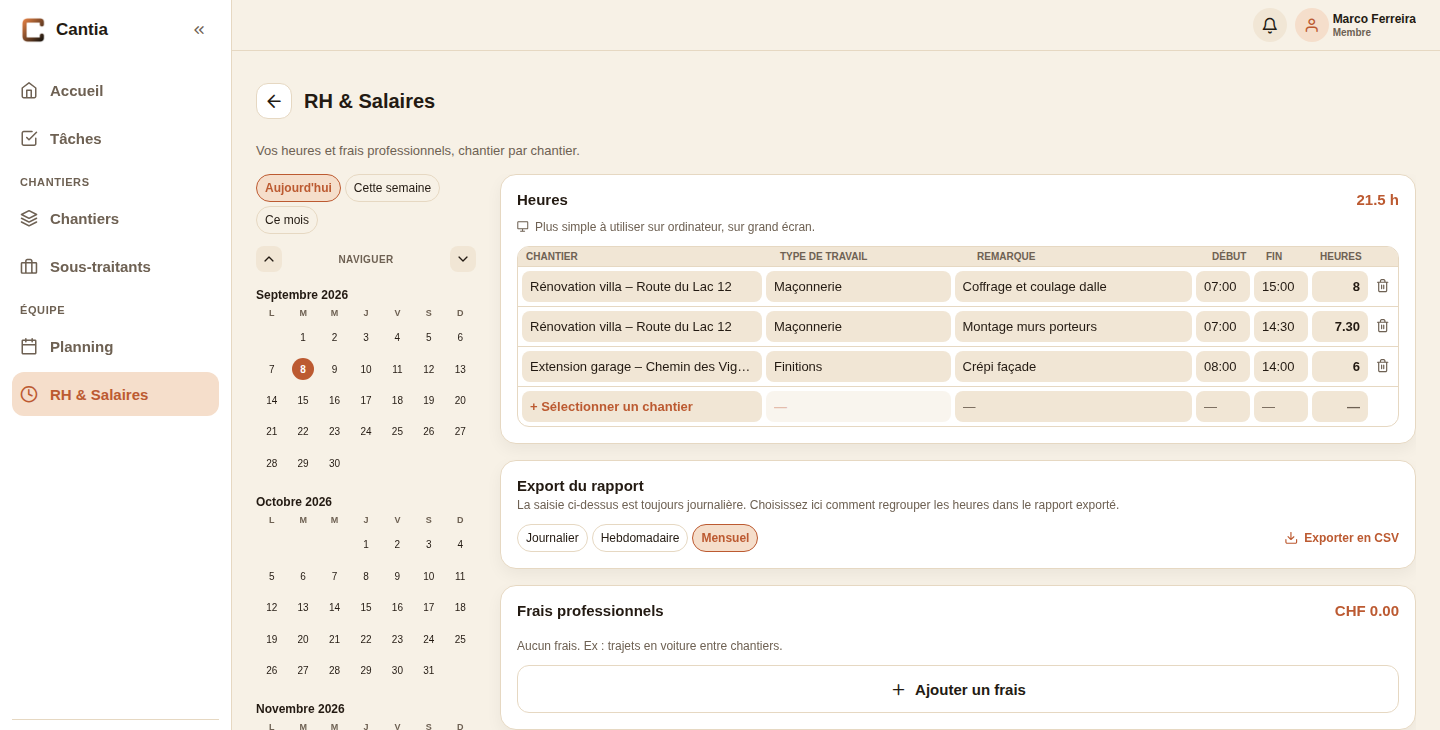
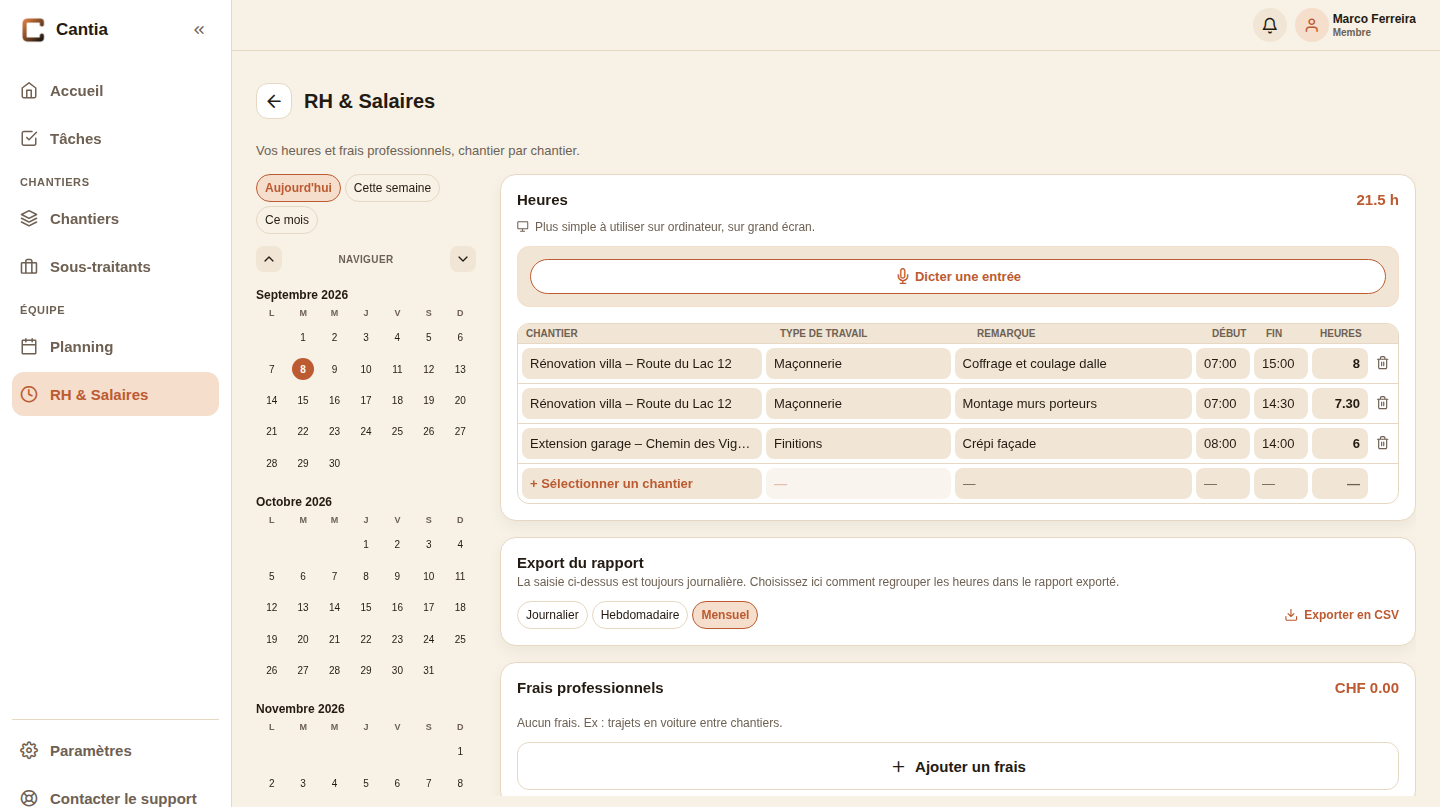
Refresh the Centre d'aide heures screenshots for voice dictation
The mobile and desktop screenshots on /aide/rh-heures-guide now show
the new "Dicter une entrée" button (previous captures predated that
feature); step captions (FR + DE) mention it too. Facturation-tab
screenshot untouched — that tab has no dictation button.

Claude-Session: https://claude.ai/code/session_01CbUBuqiAHhNgBBVdNwoKUJ

diff --git a/lib/helpArticles.ts b/lib/helpArticles.ts
@@ -281,7 +281,7 @@ export const HELP_ARTICLES: HelpArticle[] = [
     steps: [
       {
         screenshot: 'heures-mobile-saisie',
-        caption: "Sur le téléphone, un employé choisit le chantier concerné, indique ses heures et ce qu'il a fait — rien d'autre à installer, ça se fait directement dans le navigateur du téléphone.",
+        caption: "Sur le téléphone, un employé choisit le chantier concerné, indique ses heures et ce qu'il a fait — rien d'autre à installer, ça se fait directement dans le navigateur du téléphone. Le bouton \"Dicter une entrée\" permet aussi de tout dire à voix haute (\"chantier rénovation villa, de 7h à 15h, coffrage\") : Cantia reconnaît le chantier, calcule les heures et enregistre l'entrée tout seul.",
       },
       {
         screenshot: 'heures-desktop-saisie',
@@ -536,7 +536,7 @@ export const HELP_ARTICLES_DE: HelpArticle[] = [
     steps: [
       {
         screenshot: 'heures-mobile-saisie',
-        caption: 'Auf dem Smartphone wählt ein Mitarbeiter die betreffende Baustelle, trägt seine Stunden ein und was er gemacht hat — keine Installation nötig, alles läuft direkt im mobilen Browser.',
+        caption: 'Auf dem Smartphone wählt ein Mitarbeiter die betreffende Baustelle, trägt seine Stunden ein und was er gemacht hat — keine Installation nötig, alles läuft direkt im mobilen Browser. Mit der Schaltfläche „Eintrag diktieren" geht es auch per Sprache („Baustelle Renovation Villa, von 7 bis 15 Uhr, Schalung"): Cantia erkennt die Baustelle, berechnet die Stunden und speichert den Eintrag von selbst.',
       },
       {
         screenshot: 'heures-desktop-saisie',

diff --git a/components/HelpArticlePage.tsx b/components/HelpArticlePage.tsx
@@ -17,7 +17,7 @@ import { getAppLocale, useTranslation } from '../lib/translations';
 // add for a shot that isn't actually that shape.
 const STEP_ASPECT_RATIOS: Record<string, number> = {
   'heures-mobile-saisie': 390 / 844,
-  'heures-desktop-saisie': 1440 / 730,
+  'heures-desktop-saisie': 1440 / 807,
   'heures-admin-facturation': 1440 / 613,
 };
 
